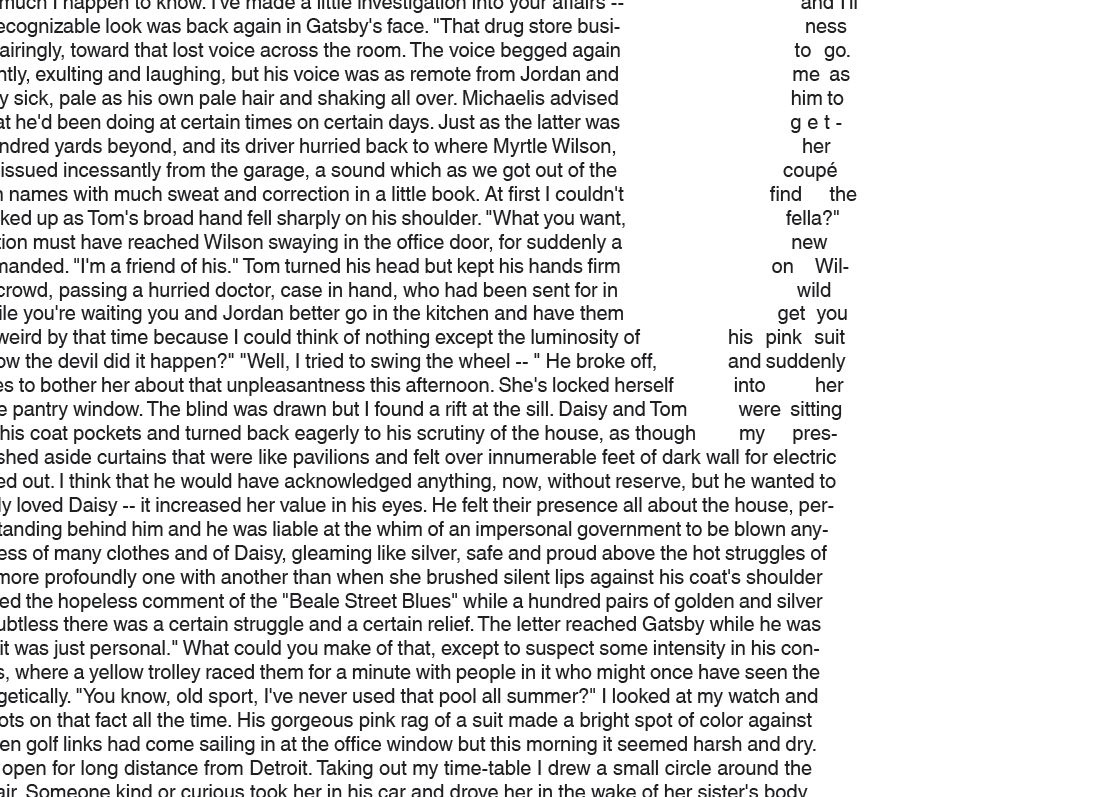
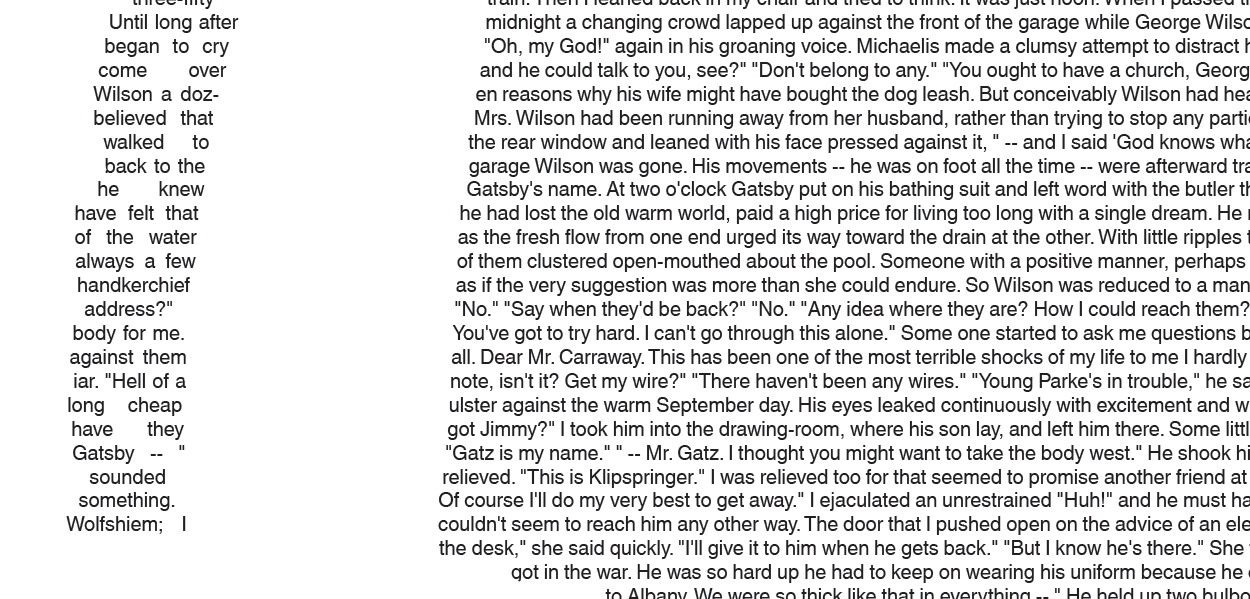
Fully updated page with Great Gatsby content including text and images.

diff --git a/index.html b/index.html
@@ -70,7 +70,7 @@
 -->
                   </div>
                   <div class="w-col w-col-6 hero-img-column">
-                     <a class="w-lightbox w-inline-block" href="/#" data-ix="hover-over-hero-image" onClick="ga('send', 'pageview', '/virtual/product-img/hero');">
+                     <a class="w-lightbox w-inline-block" href="#" data-ix="hover-over-hero-image" onClick="ga('send', 'pageview', '/virtual/product-img/hero');">
                         <div class="hero-img-wrapper">
                            <div class="hero-img-bg"></div>
                            <img class="hero-img" src="./index_files/The-Great-Gatsby-BW-SD.gif" alt="The Great Gatsby poster - Postertext" width="415">
@@ -91,7 +91,7 @@
                      <div class="buy-wrapper">
                         <div class="divider-buy buy-top"></div>
                         <div class="price-txt">$26.95</div>
-                        <a class="button" href="http://postertext.com/cart/1054921224:1?discount=FREESHIPPING16582">Buy now</a>
+                        <a class="button" href="http://postertext.com/cart/653387545:1?discount=FREESHIPPING16582">Buy now</a>
                         <div class="hurry-txt">Hurry!&nbsp;Free shipping ends in <span class="time">35:00</span> minutes.</div>
                         <div class="divider-buy buy-top"></div>
                      </div>
@@ -121,7 +121,7 @@
                <div class="w-col w-col-6 right-column first-value-column" id="legible-text">
                   <h2>Legible Text</h2>
                   <div>Text size is perfectly legible for someone with average eyesight.<br><br>If you can read the ingredients list on product packagings, then you can read our text.</div>
-                  <a class="w-lightbox w-inline-block" href="/#" onClick="ga('send', 'pageview', '/virtual/product-img/see-more-text');">
+                  <a class="w-lightbox w-inline-block" href="#" onClick="ga('send', 'pageview', '/virtual/product-img/see-more-text');">
                      <div class="link">Click here to see more text.</div>
                      <script type="application/json" class="w-json">{ "items": [{
                         "url": "./index_files/great-gatsby-zoom-text.png",
@@ -144,8 +144,8 @@
             <div class="w-row">
                <div class="w-col w-col-6 left-column pen-book-poster-column"><img class="pen-book-poster-img" src="./index_files/pen-book-poster.png"></div>
                <div class="w-col w-col-6 right-column" id="book-coverage">
-                  <h2>Book Coverage</h2>
-                  <div>Words from the first 13 chapters of the novel is used to create this stunning and elegant print.</div>
+                  <h2>Entire Book</h2>
+                  <div>Text from the entire novel is used to create this stunning and elegant print.</div>
                </div>
             </div>
          </div>
@@ -159,7 +159,7 @@
                   <ul class="ul-furthermore">
                      <li class="value-list">Museum quality satin paper</li>
                      <li class="value-list">Archival ink</li>
-                     <li class="value-list">24x36” (portrait)</li>
+                     <li class="value-list">24x30” (landscape)</li>
                      <li class="value-list">100% legible text</li>
                      <li class="value-list">Ships within 24 hours</li>
                      <li class="value-list">Fast &amp;&nbsp;easy returns</li>
@@ -168,9 +168,7 @@
                </div>
                <div class="w-col w-col-6 right-column" id="true-to-novel">
                   <h2>True to the Novel</h2>
-                  <div>The famous and futuristic words of Orson Scott Card’s <em>Ender’s Game</em> are transformed here to
-                     reveal a portrait of the young protagonist Ender Wiggins, lost in the solitude
-                     of Command School’s final test.
+                  <div>This poster uses Fitzgerald's prose to illustrate one of the most telling scenes from the book, with the enigmatic and lovelorn Gatsby gazing out over the bay towards the unblinking green light that shines out across the water from the dock of his beloved Daisy's mansion.
                   </div>
                </div>
             </div>
@@ -225,14 +223,14 @@
          <div class="w-container last-product-container"><img class="hero-img last-product-img" src="./index_files/The-Great-Gatsby-BW-SD.gif" alt="The Great Gatsby book poster - Postertext" width="200"></div>
          <div class="price-txt">$26.95</div>
          <div class="w-container">
-            <a class="button" href="http://postertext.com/cart/1054921224:1?discount=FREESHIPPING16582">Buy now</a>
+            <a class="button" href="http://postertext.com/cart/653387545:1?discount=FREESHIPPING16582">Buy now</a>
              <div class="hurry-txt">Hurry!&nbsp;Free shipping ends in <span class="time">35:00</span> minutes.</div>
           </div>
          <div class="divider-buy buy-bottom"></div>
       </div>
       <div class="w-section">
          <div class="w-container secure-wrapper">
-            <div class="smallest-txt">Your data is safe with us. We are protected by the best security firms in the industry.</div>
+            <div class="smallest-txt">Your data is safe with us. We are protected by the best security in the industry.</div>
             <img src="./index_files/payment-logos.png" width="122">
          </div>
       </div>
@@ -251,7 +249,7 @@
          <div class="w-container legal-stuff-column">
             <h4>Addendum</h4>
             <ul class="ul-footer">
-               <li><a class="link footer-links modal-link-returns" href="/#">Returns &amp; Exchanges</a><a class="link footer-links modal-link-terms" href="/#">Policy &amp; Terms</a></li>
+               <li><a class="link footer-links modal-link-returns" href="#">Returns &amp; Exchanges</a><a class="link footer-links modal-link-terms" href="#">Policy &amp; Terms</a></li>
             </ul>
          </div>
       </div>
@@ -262,7 +260,7 @@
       </div>
       <div class="w-section modal-background-returns">
          <div class="modal-window-returns">
-            <a class="w-clearfix w-inline-block" href="http://enders-game-poster.webflow.io/#" onClick="ga('send','pageview', '/virtual/footer/returns');">
+            <a class="w-clearfix w-inline-block" href="#" onClick="ga('send','pageview', '/virtual/footer/returns');">
                <div class="close-modal link">CLOSE</div>
             </a>
             <h4 class="modal-header">RETURNS &amp;&nbsp;EXCHANGES</h4>
@@ -271,7 +269,7 @@
       </div>
       <div class="w-section modal-background-terms">
          <div class="modal-window-terms">
-            <a class="w-inline-block" href="http://enders-game-poster.webflow.io/#" onClick="ga('send','pageview', '/virtual/footer/terms');">
+            <a class="w-inline-block" href="#" onClick="ga('send','pageview', '/virtual/footer/terms');">
                <div class="close-modal link top">CLOSE</div>
             </a>
             <h4 class="modal-header">policy &amp; terms</h4>
@@ -304,7 +302,7 @@
             <div class="modal-text">If we change our Privacy Policy, we will post a new version on our Website, which will become effective when posted. The new policy will apply to all current and past users of the Website and will replace any prior policies that are inconsistent with it.</div>
             <h5 class="modal-subheader">Contact us</h5>
             <div class="modal-text">If you ever have any questions regarding our privacy policy please contact us at&nbsp;<a class="link inline-link" href="mailto:inquiry@postertext.com">inquiry@postertext.com</a>.</div>
-            <a class="w-inline-block" href="http://enders-game-poster.webflow.io/#">
+            <a class="w-inline-block" href="#">
                <div class="close-modal link bottom">CLOSE</div>
             </a>
          </div>

diff --git a/index_files/great-gatsby-poster.css b/index_files/great-gatsby-poster.css
@@ -428,7 +428,7 @@ a {
 .frame-not-included-wrapper {
   position: absolute;
   right: 130px;
-  bottom: 604px;
+  bottom: 600px;
   display: block;
 }
 .product-img-zoom-container {
@@ -610,7 +610,7 @@ html.w-mod-js *[data-ix="0-opacity-on-load"] {
   }
   .frame-not-included-wrapper {
     right: 25px;
-    bottom: 605px;
+    bottom: 600px;
   }
   .testimonials-wrapper {
     padding-right: 50px;
@@ -878,7 +878,7 @@ html.w-mod-js *[data-ix="0-opacity-on-load"] {
   }
   .frame-not-included-wrapper {
     right: -15px;
-    bottom: 615px;
+    bottom: 605px;
   }
   .testimonials-header {
     margin-top: 0px;
